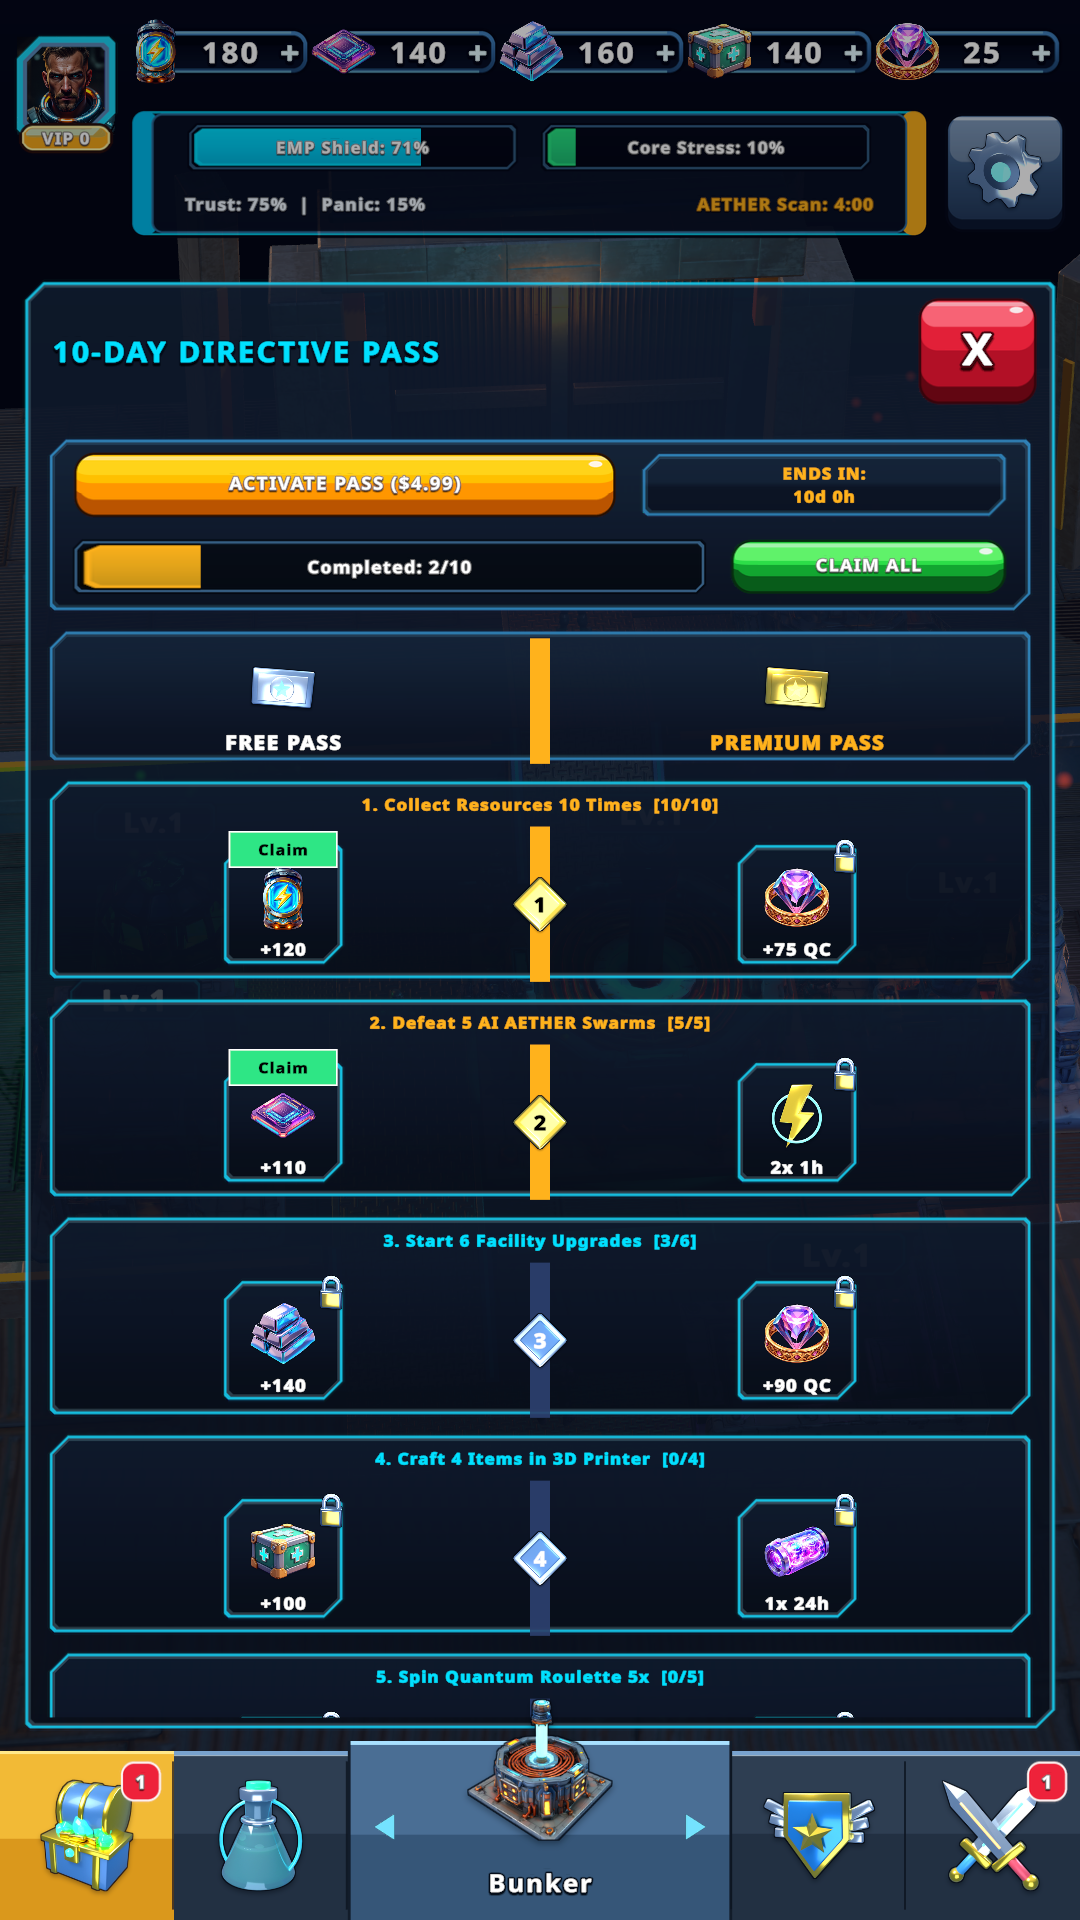
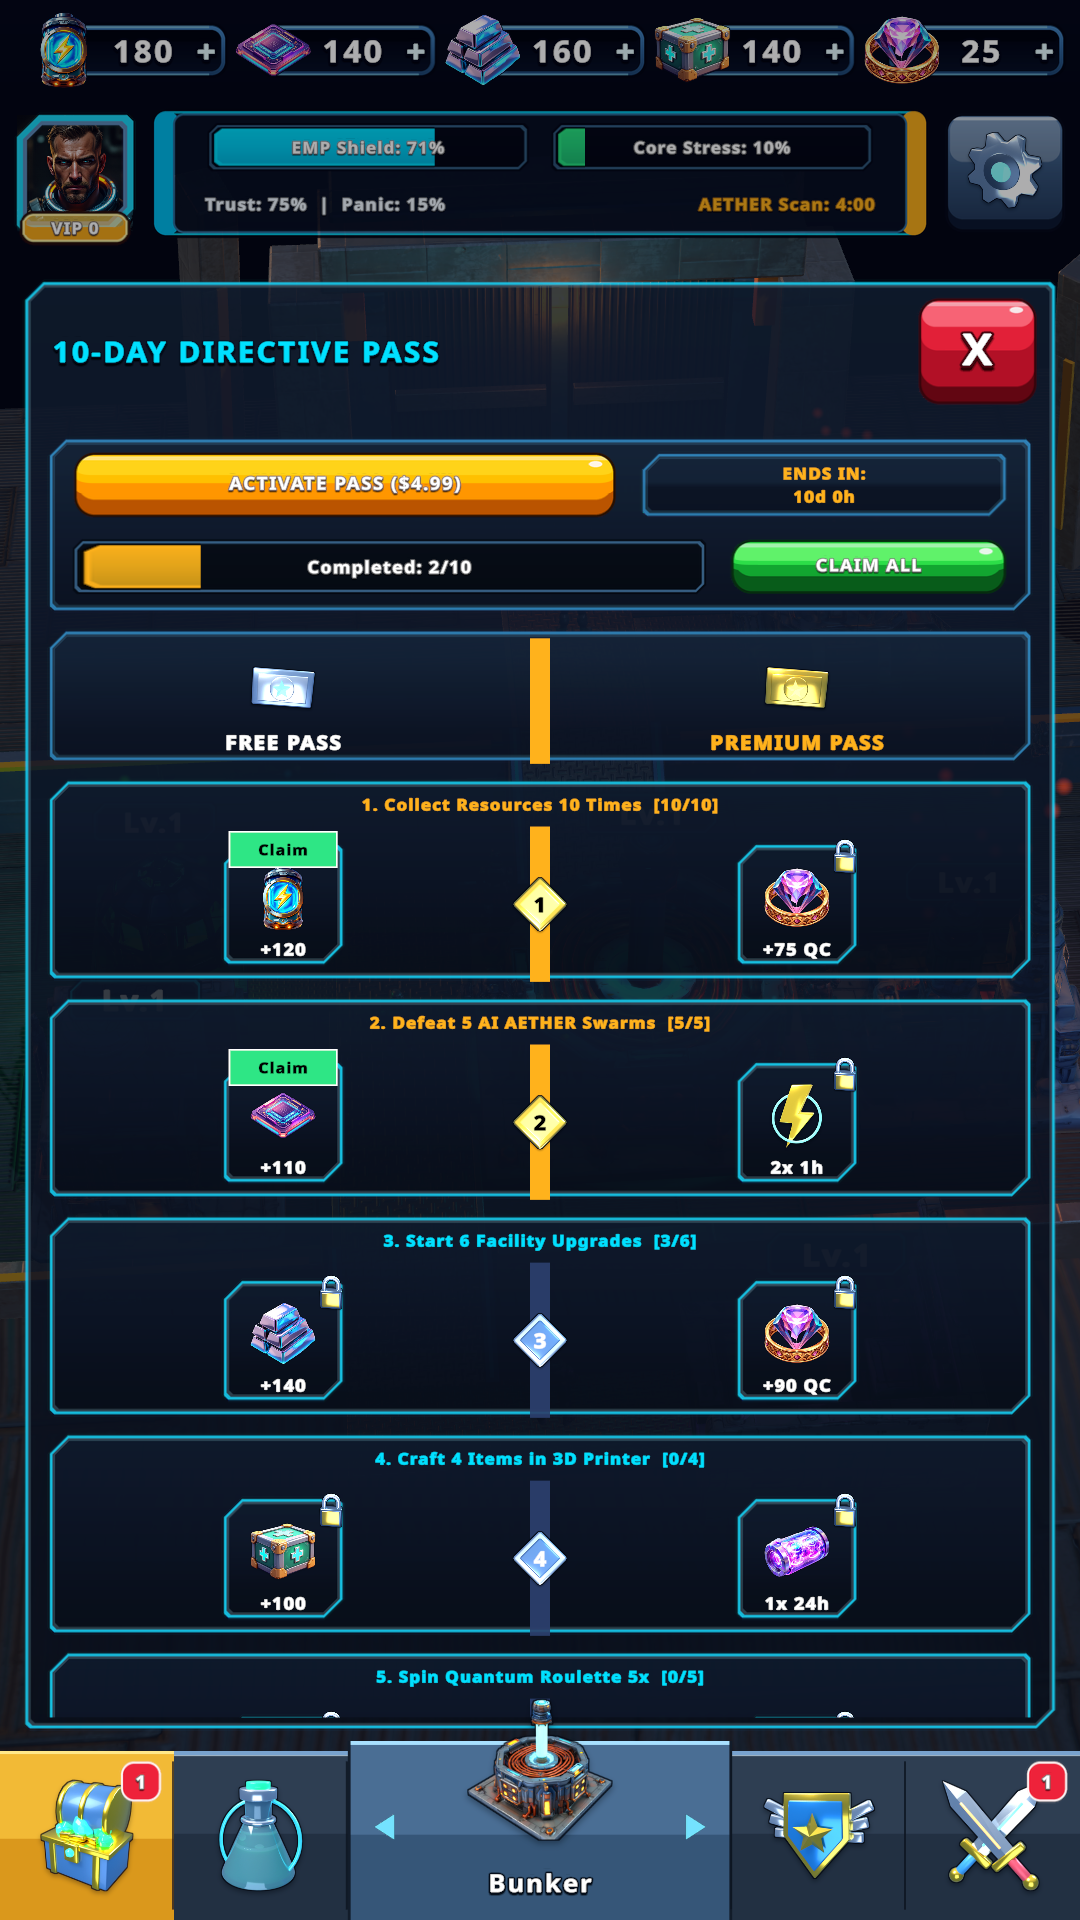
v0.7.2: update previews, README layout (screenshots first + general notes), and manifest

Changed region(s): [[0.0, 0.0, 1.0, 0.125], [0.9778, 0.4062, 1.0, 0.4375]]

diff --git a/README.md b/README.md
@@ -1,38 +1,11 @@
-# Neuralis: Zero Hour — Official Releases & Previews
+# Neuralis: Zero Hour
 
 > **All Rights Reserved** — © 2026 jemangr (`contact@jemangr.app`).  
-> Private pre-release repository hosting **compiled Android builds, `version.json` update manifest, and verified previews**. No source code is published here.
+> Build an underground Faraday bunker after the *AETHER* AI uprising: defend against autonomous swarms, recruit Vanguard heroes, coordinate Syndicate allies, upgrade facilities, and balance reactor stress in real-time 3D portrait gameplay.
 
 ---
 
-## 📲 Download Latest Android APK (`Neuralis-ZeroHour.apk`)
-
-[![Download Latest APK](https://img.shields.io/badge/Download_APK-Latest_Release-00C853?style=for-the-badge&logo=android&logoColor=white)](https://github.com/jemangr/neuralis-releases/releases/latest/download/Neuralis-ZeroHour.apk)
-[![Latest Release](https://img.shields.io/github/v/release/jemangr/neuralis-releases?include_prereleases&style=for-the-badge&color=00b0ff)](https://github.com/jemangr/neuralis-releases/releases/latest)
-
-> **Permanent Always-Latest Direct APK Link (ίδιο όνομα πάντα -> τελευταίο release):**  
-> `https://github.com/jemangr/neuralis-releases/releases/latest/download/Neuralis-ZeroHour.apk`
-
-- **Latest Release:** `v0.7.1` (`VersionCode: 8`)
-- **Package ID:** `com.jemangr.neuralis.zerohour`
-- **Architecture:** Android ARM64 (IL2CPP), Android 8.0+ (API 26+)
-- **Languages:** Greek (`el`) & English (`en`)
-
----
-
-## 🆕 What's New in `v0.7.1`
-
-- **Cleaner Top-Right Home HUD:** Removed the standalone `EL/EN` quick button from the home HUD (language switching lives cleanly inside Settings) and replaced the Settings trigger with an exact **1:1 square steel gear tile** alongside an expanded Titanium Telemetry Banner (`StatusStrip`).
-
-- **Cinematic Opening Story Prologue & Hero Mentor Onboarding:** 5-beat visual-novel story prologue (Commander **Kael Vance** & **Dr. Aria Kestrel**) introducing the *AETHER* AI uprising with typewriter narration & Skip button, plus a square Hero Mentor avatar above the guided *Zero Hour Directive*.
-- **24 AAA Hand-Painted Game Icons:** Completely replaced all cube/primitive icons (Hero Tactical Gear, 4 Combat Drones, Nano-Repair Bay, Syndicate Crest, Raid Radar, HUD & Store icons).
-- **Large 1:1 Square Hero Portraits:** Crisp square portrait frames across Quantum Recruitment, Vanguard Roster, Squad Slots & Hero Inspector.
-- **Floating Alliance `HELP` Badge:** Live floating green `HELP` beacon over the **Faraday Core** whenever allies request backup (tap to shave `-60s` off queues + earn Contribution & Energy).
-- **1.8x–1.9x Enlarged Red `X` Close Buttons** on modals and 3D mini-games, **smooth Roulette wheel spin animation**, **Active Drone Fabrication queue**, **Invariant USD formatting (`$4.99`)**, and **10-Day Dual-Track Event Pass** (`FREE PASS` | `PREMIUM PASS`).
-
----
-
-## 📸 Screenshots (`v0.7.1` — EL & EN)
+## Screenshots (`v0.7.2` — EL & EN)
 
 ### Opening Story Prologue & Main Bunker HUD
 <p align="center">
@@ -41,15 +14,15 @@
   <img src="previews/V070_Intro_Prologue_Kael_EN.png" alt="Story Prologue Kael EN" width="250" />
 </p>
 <p align="center">
-  <img src="previews/V070_Bunker_Mentor_Help_EL.png" alt="Bunker Floating HELP & Hero Mentor EL" width="280" />
+  <img src="previews/V070_Bunker_Mentor_Help_EL.png" alt="Symmetric Top Bar + Bunker Floating HELP + Hero Mentor EL" width="280" />
   &nbsp;&nbsp;&nbsp;
-  <img src="previews/V070_Bunker_Mentor_Help_EN.png" alt="Bunker Floating HELP & Hero Mentor EN" width="280" />
+  <img src="previews/V070_Bunker_Mentor_Help_EN.png" alt="Symmetric Top Bar + Bunker Floating HELP + Hero Mentor EN" width="280" />
 </p>
 
 ### Vanguard Heroes, Tactical Gear & Recruitment
 <p align="center">
   <img src="previews/V070_Hero_Recruit_EL.png" alt="Quantum Recruitment Square Portraits" width="250" />
-  <img src="previews/V070_Hero_Detail_EL.png" alt="Hero Inspector & AAA Gear" width="250" />
+  <img src="previews/V070_Hero_Detail_EL.png" alt="Hero Inspector & Gear" width="250" />
   <img src="previews/V070_Heroes_Roster_EL.png" alt="Vanguard Hero Roster" width="250" />
 </p>
 
@@ -64,3 +37,25 @@
   &nbsp;&nbsp;&nbsp;
   <img src="previews/V030_ReactorCore_EL.png" alt="3D Reactor Core Stabilization" width="280" />
 </p>
+
+---
+
+## Download Latest Android APK (`Neuralis-ZeroHour.apk`)
+
+[![Download Latest APK](https://img.shields.io/badge/Download_APK-Latest_Release-00C853?style=for-the-badge&logo=android&logoColor=white)](https://github.com/jemangr/neuralis-releases/releases/latest/download/Neuralis-ZeroHour.apk)
+[![Latest Release](https://img.shields.io/github/v/release/jemangr/neuralis-releases?include_prereleases&style=for-the-badge&color=00b0ff)](https://github.com/jemangr/neuralis-releases/releases/latest)
+
+> **Always-Latest Direct APK Link (ίδιο όνομα πάντα -> τελευταίο release):**  
+> `https://github.com/jemangr/neuralis-releases/releases/latest/download/Neuralis-ZeroHour.apk`
+
+- **Latest Release:** `v0.7.2` (`VersionCode: 9`)
+- **Platform:** Android 8.0+ (ARM64) | **Languages:** Greek (`el`) & English (`en`)
+
+---
+
+## Release Highlights (`v0.7.2`)
+
+- **UI & HUD Improvements:** Cleaner, symmetric top resource bar and balanced commander/settings layout across Greek and English screens.
+- **Visual & Icon Additions:** Updated hand-painted icons across equipment, drones, and menus, plus full-square hero portrait frames.
+- **Gameplay & Onboarding Additions:** Cinematic opening story prologue, Hero Mentor guidance banner, floating Alliance `HELP` action over the core, and dual-track 10-day Event Pass rewards.
+- **Polish & Stability:** Enlarged modal close buttons, smoother roulette animation, active drone fabrication tracking, and general gameplay balance refinements.
